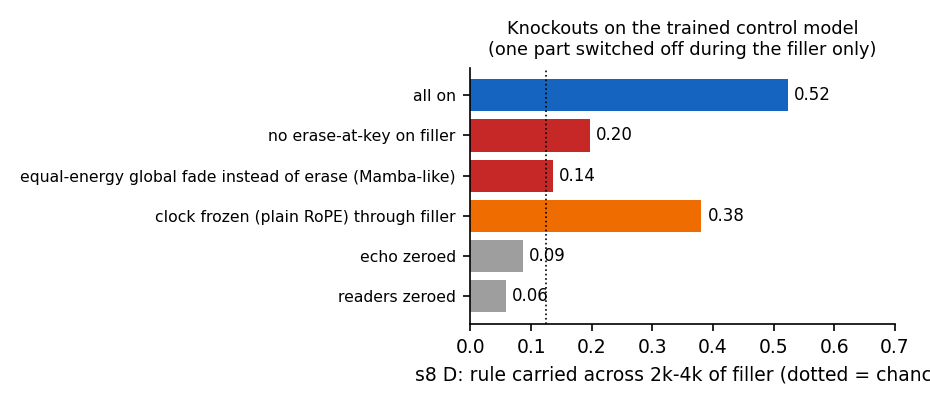
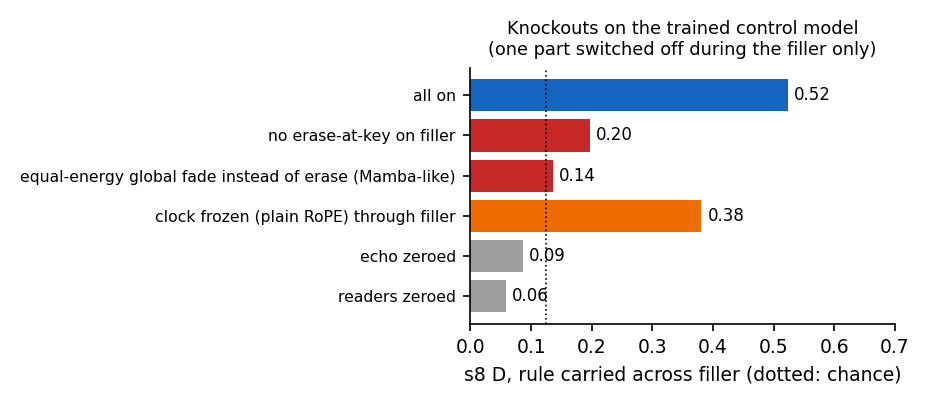
paper fig8: shorter axis label

Changed region(s): [[0.4366, 0.8889, 1.0, 0.9481]]

diff --git a/v16/paper/make_figures.py b/v16/paper/make_figures.py
@@ -151,7 +151,7 @@ def fig8_knockouts():
     cols = ["#1565c0", "#c62828", "#c62828", "#ef6c00", "#9e9e9e", "#9e9e9e"]
     ax.barh(names[::-1], v[::-1], color=cols[::-1]); ax.axvline(0.125, ls=":", c="k", lw=0.8); ax.set_xlim(0, 0.7)
     for i, x in enumerate(v[::-1]): ax.text(x + 0.01, i, f"{x:.2f}", va="center", fontsize=8)
-    ax.set_xlabel("s8 D: rule carried across 2k-4k of filler (dotted = chance)"); ax.tick_params(axis="y", labelsize=7.5)
+    ax.set_xlabel("s8 D, rule carried across filler (dotted: chance)"); ax.tick_params(axis="y", labelsize=7.5)
     ax.set_title("Knockouts on the trained control model\n(one part switched off during the filler only)", fontsize=8.5)
     save(fig, "fig8_knockouts")
 
